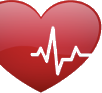
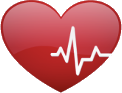
S21 心臟重裁補全（左心室不再被切掉）＋去除拐杖殘塊；刀/心加 ?v=2 破快取

Changed region(s): [[0.0, 0.0, 1.0, 1.0]]

diff --git a/index.html b/index.html
@@ -518,9 +518,9 @@ body.no-clickzones .click-zones{display:none}
       <text x="97.5" y="421">自律</text><text x="97.5" y="453" fill="#9a8f7d">他律</text>
       <text x="242.5" y="437">救人</text>
       <image href="images/ic_hand.png" x="336" y="382" width="108" height="96" preserveAspectRatio="xMidYMid meet"/>
-      <image href="images/ic_knife.png" x="527" y="389" width="95" height="82" preserveAspectRatio="xMidYMid meet"/>
-      <image href="images/ic_person.png" x="693" y="384" width="106" height="91" preserveAspectRatio="xMidYMid meet"/>
-      <image href="images/ic_heart.png" x="812" y="398" width="70" height="64" preserveAspectRatio="xMidYMid meet"/>
+      <image href="images/ic_knife.png?v=2" x="527" y="389" width="95" height="82" preserveAspectRatio="xMidYMid meet"/>
+      <image href="images/ic_person.png" x="690" y="384" width="104" height="89" preserveAspectRatio="xMidYMid meet"/>
+      <image href="images/ic_heart.png?v=2" x="802" y="398" width="86" height="66" preserveAspectRatio="xMidYMid meet"/>
     </g>
   </svg>
   </div>